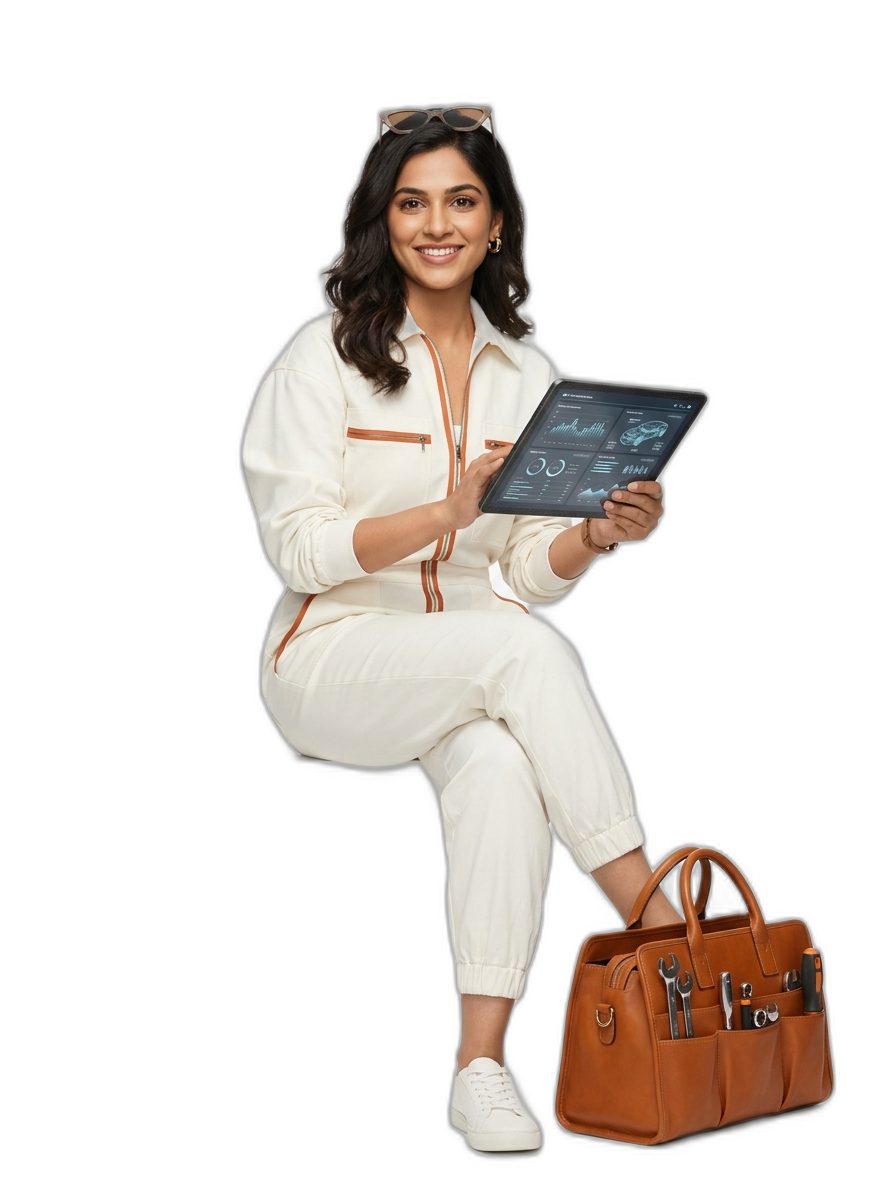
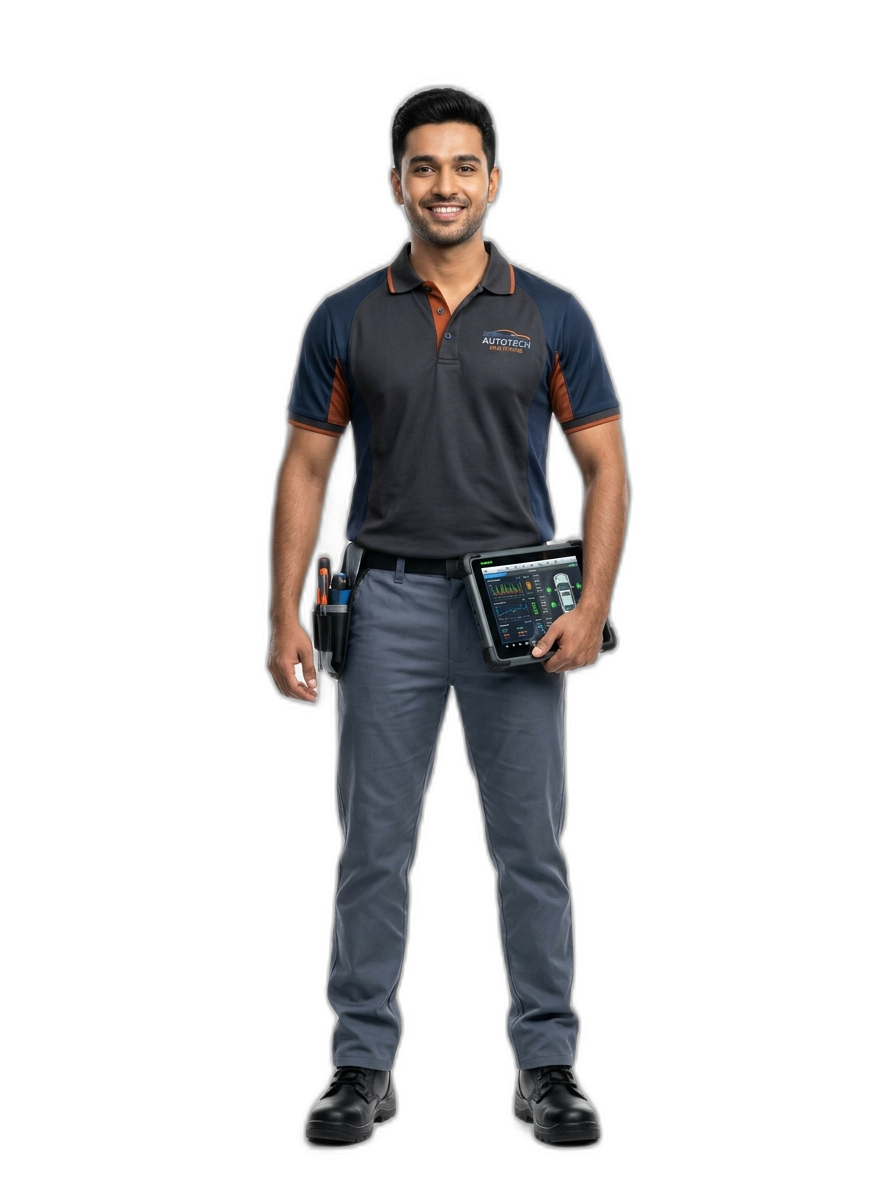
feat(hero): replace with standing male technician cutout in authentic workwear

diff --git a/client/src/pages/LandingPage.tsx b/client/src/pages/LandingPage.tsx
@@ -621,11 +621,11 @@ export const LandingPage: React.FC<LandingPageProps> = ({ onOpenAuthModal }) => 
               <img
                 src="/images/hero_technician.png"
                 alt="Certified JantaGaraj diagnostic technician"
-                className="w-full max-h-[520px] sm:max-h-[580px] object-contain object-bottom drop-shadow-[0_20px_35px_rgba(0,0,0,0.12)] dark:drop-shadow-[0_25px_45px_rgba(0,0,0,0.7)] transition-transform duration-700 hover:scale-[1.02]"
+                className="w-full max-h-[560px] sm:max-h-[640px] object-contain object-bottom drop-shadow-[0_20px_35px_rgba(0,0,0,0.12)] dark:drop-shadow-[0_25px_45px_rgba(0,0,0,0.7)] transition-transform duration-700 hover:scale-[1.02]"
               />
 
               {/* Floating Badge 1: Top-Right (Rating & Reviews - matching reference) */}
-              <div className="absolute top-4 sm:top-6 -right-2 sm:-right-4 p-3 sm:p-3.5 rounded-2xl bg-white/95 dark:bg-[#1E1B18]/95 backdrop-blur-md border border-[#E7E5DF] dark:border-[#2B231D] shadow-xl z-30 flex items-center gap-3 animate-in fade-in duration-500">
+              <div className="absolute top-10 sm:top-14 -right-2 sm:-right-4 p-3 sm:p-3.5 rounded-2xl bg-white/95 dark:bg-[#1E1B18]/95 backdrop-blur-md border border-[#E7E5DF] dark:border-[#2B231D] shadow-xl z-30 flex items-center gap-3 animate-in fade-in duration-500">
                 <div className="w-9 h-9 rounded-full bg-[#252621] dark:bg-black text-amber-400 flex items-center justify-center shrink-0">
                   <Star className="w-4 h-4 fill-amber-400 text-amber-400" />
                 </div>
@@ -653,7 +653,7 @@ export const LandingPage: React.FC<LandingPageProps> = ({ onOpenAuthModal }) => 
               </div>
 
               {/* Floating Badge 3: Bottom-Left (100% Verified - matching reference) */}
-              <div className="absolute bottom-6 sm:bottom-8 left-2 sm:left-4 px-4 py-2 rounded-full bg-white/95 dark:bg-[#1E1B18]/95 backdrop-blur-md border border-[#E7E5DF] dark:border-[#2B231D] shadow-xl z-30 flex items-center gap-2">
+              <div className="absolute bottom-8 sm:bottom-12 left-1 sm:left-3 px-4 py-2 rounded-full bg-white/95 dark:bg-[#1E1B18]/95 backdrop-blur-md border border-[#E7E5DF] dark:border-[#2B231D] shadow-xl z-30 flex items-center gap-2">
                 <span className="w-2 h-2 rounded-full bg-emerald-500 animate-pulse shrink-0" />
                 <span className="text-xs font-bold text-[#252621] dark:text-[#F5F2EB]">
                   {language === "hi" ? "100% सत्यापित व प्रशिक्षित मैकेनिक" : "100% Verified & Certified Pros"}
